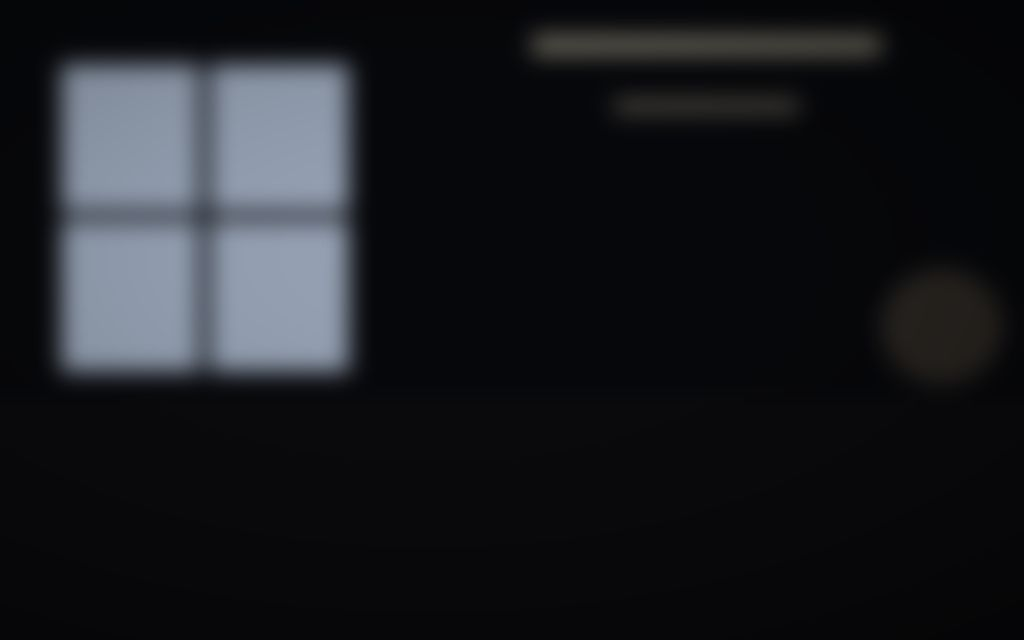
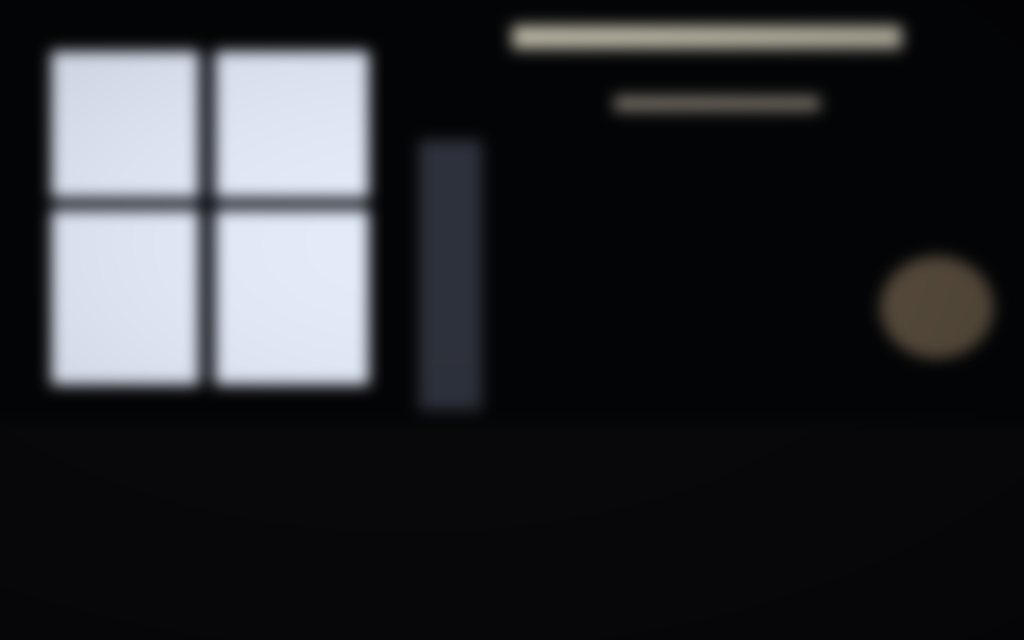
Make the reflection visible, and give it bleed that scales
Two problems, and the first explains the second.

The parallax was translating the ELEMENT, which meant it had to be inset far
enough that the travel never dragged its edge into view. A percentage inset
cannot do that job: -14% is generous on a 400px band and 9px on a 64px bar,
against 11px of travel — so on the thin bars the edge came into frame every
time the pointer crossed the screen. The parallax now moves the BACKGROUND
inside a pane-sized element instead. Same motion, bleed that scales with the
oversize automatically, and nothing overflowing the pane at all.

And it was too faint to read. The point of a reflection is that you recognise
something in it — a window, a strip light, the shape of a room — and at 30%
over a photograph none of those shapes survived, which left a haze. The room
is brighter and far more contrasty now, and it sits at 55%. A haze is what a
reflection looks like when it is failing.

Claude-Session: https://claude.ai/code/session_01Pyyc32HBe6iCTkZTH38oRa

diff --git a/src/styles.css b/src/styles.css
@@ -435,20 +435,27 @@
    */
   .glass > .glass__reflection {
     position: absolute;
-    inset: -14%;
+    inset: 0;
     border-radius: inherit;
     pointer-events: none;
     z-index: 1;
-    opacity: 0.3;
+    opacity: 0.55;
     mix-blend-mode: screen;
     background-image: url("/room.jpg");
-    background-size: cover;
-    background-position: center;
-    transform: translate3d(
-      calc(var(--reflect-x, 0) * -34px),
-      calc(var(--reflect-y, 0) * -22px),
-      0
-    );
+    /*
+     * The parallax moves the BACKGROUND, not the element.
+     *
+     * Translating the element meant it had to be inset far enough that the
+     * travel never dragged its edge into view — and a percentage inset is
+     * useless for that, because the thin bars are 64px tall, where 14% is 9px
+     * of bleed against 11px of travel. Oversizing the background instead gives
+     * the same parallax with bleed that scales with it automatically, and
+     * nothing overflows the pane at all.
+     */
+    background-size: 135% 135%;
+    background-position:
+      calc(50% + var(--reflect-x, 0) * -40px)
+      calc(50% + var(--reflect-y, 0) * -26px);
   }
 
   /*
@@ -456,12 +463,7 @@
    * room the same way up five times.
    */
   .glass:nth-of-type(even) > .glass__reflection {
-    transform: translate3d(
-        calc(var(--reflect-x, 0) * -34px),
-        calc(var(--reflect-y, 0) * -22px),
-        0
-      )
-      scaleX(-1);
+    transform: scaleX(-1);
   }
 }
 
